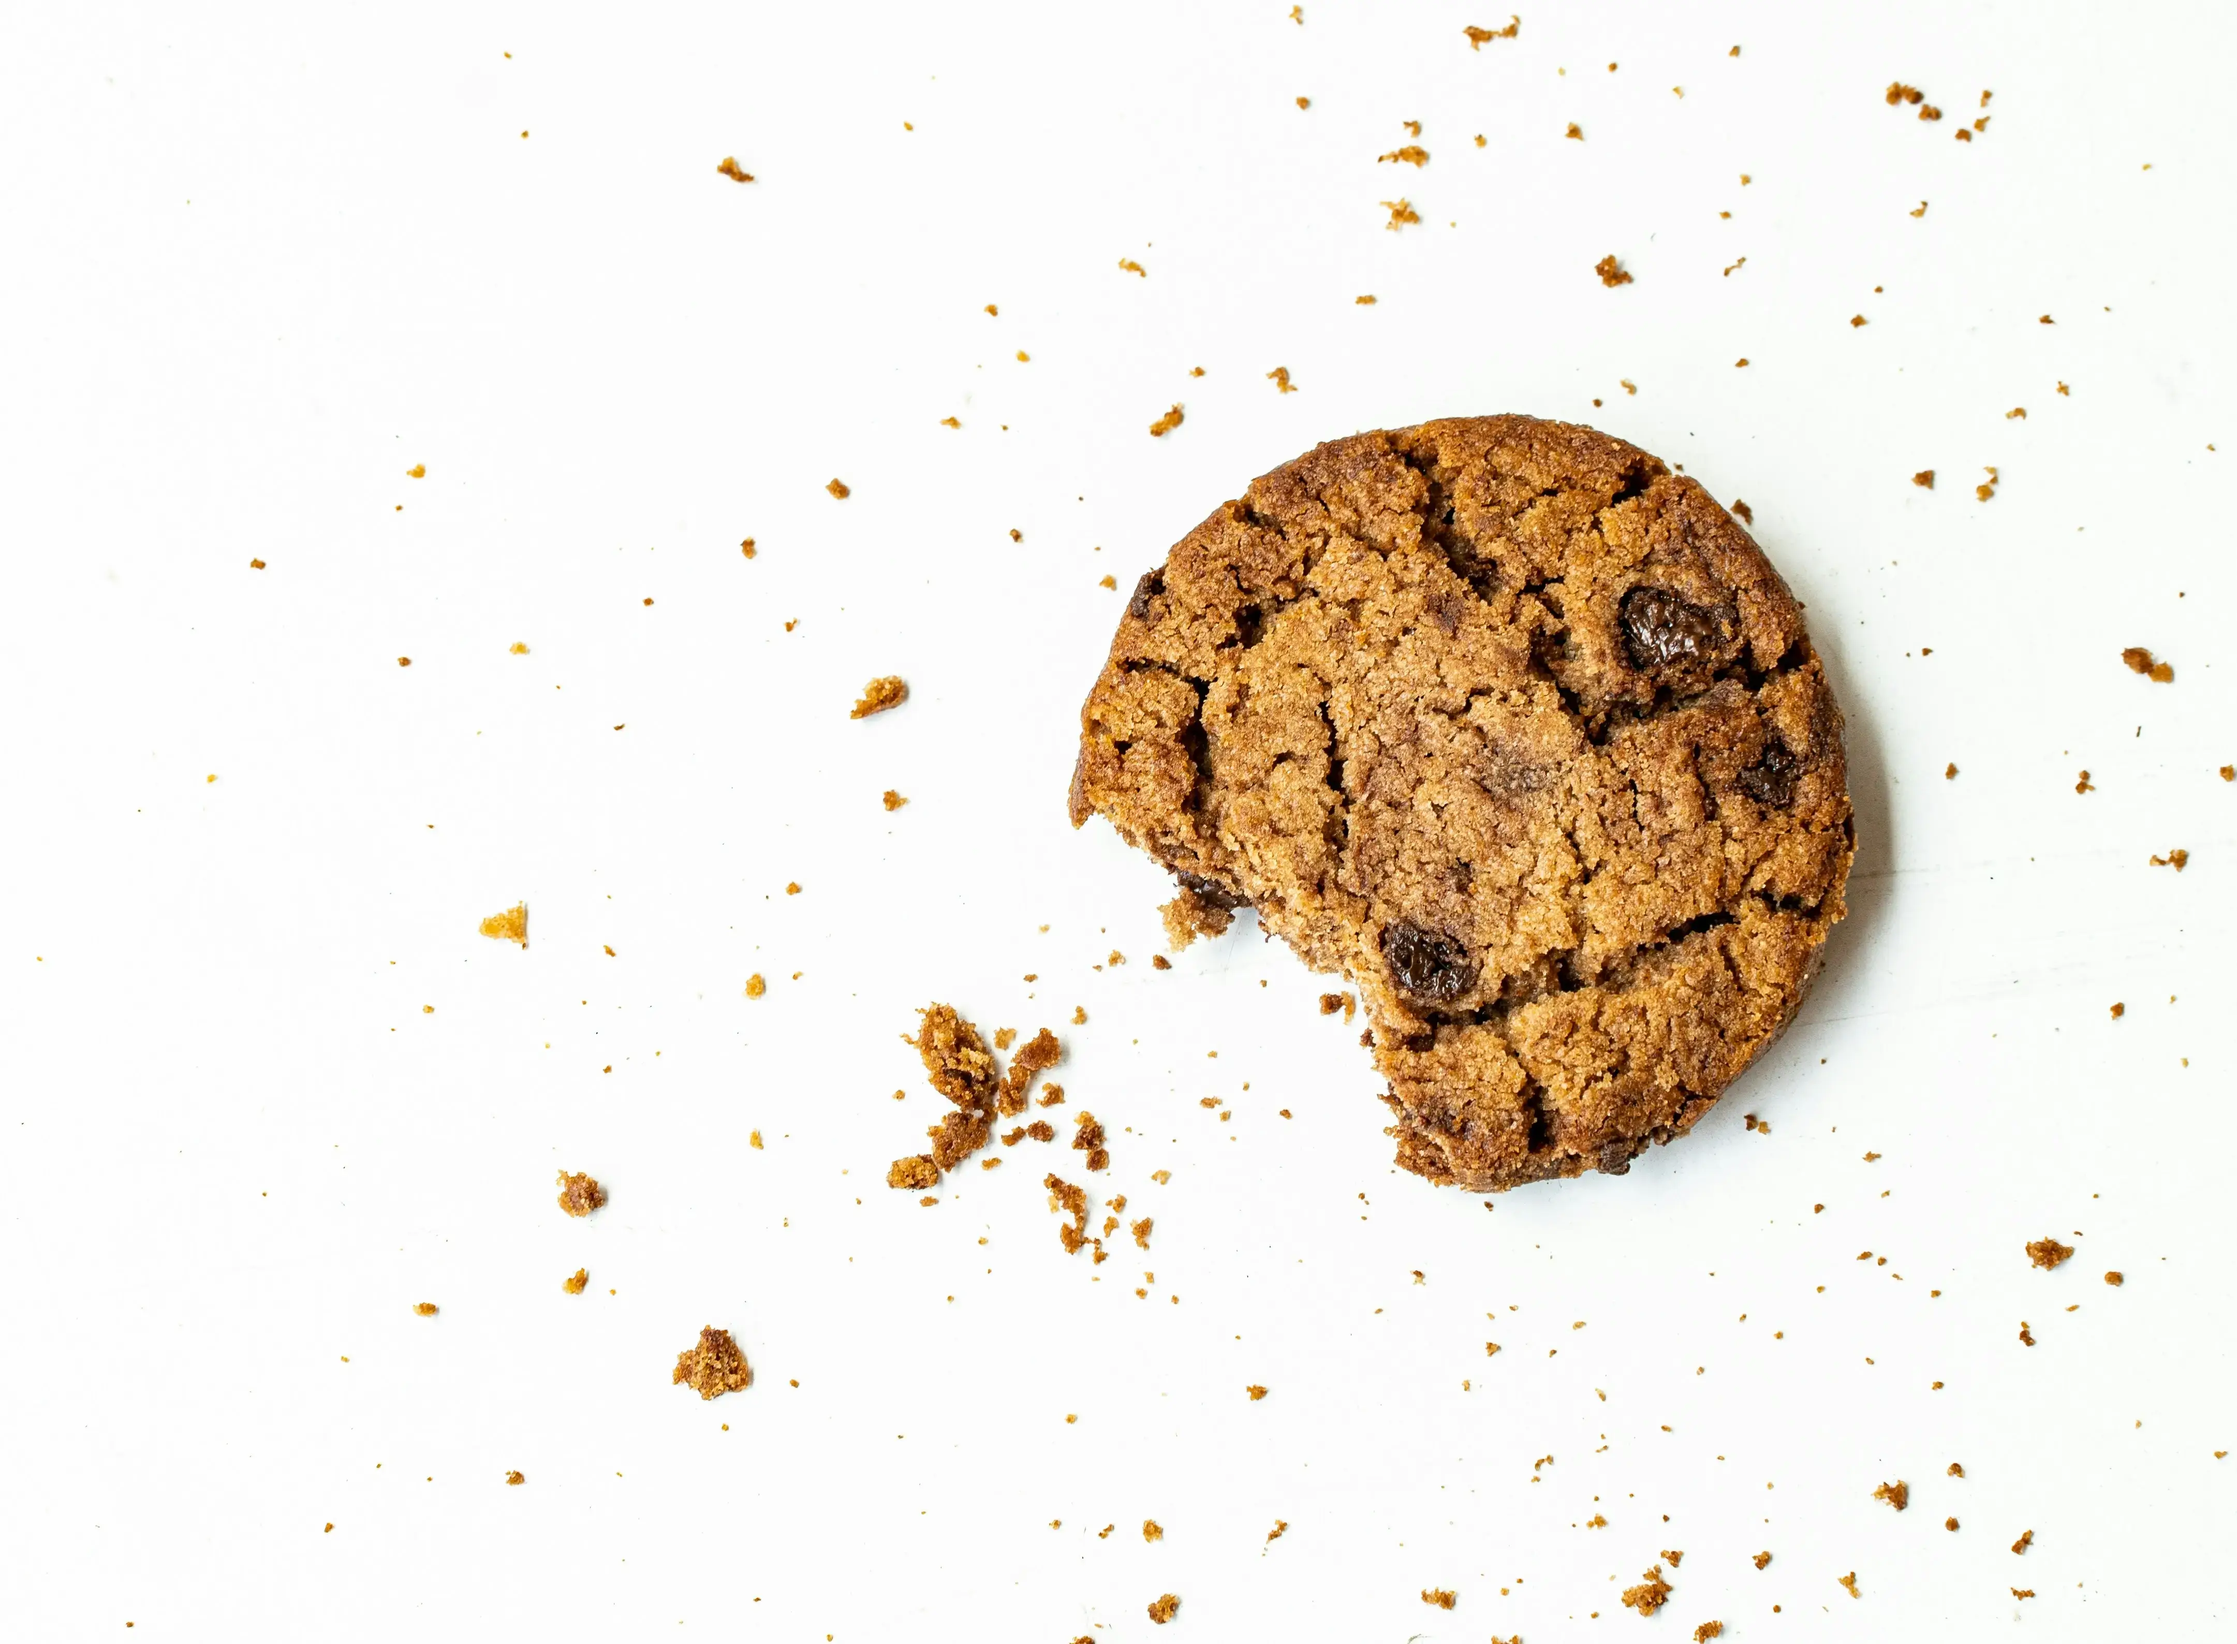
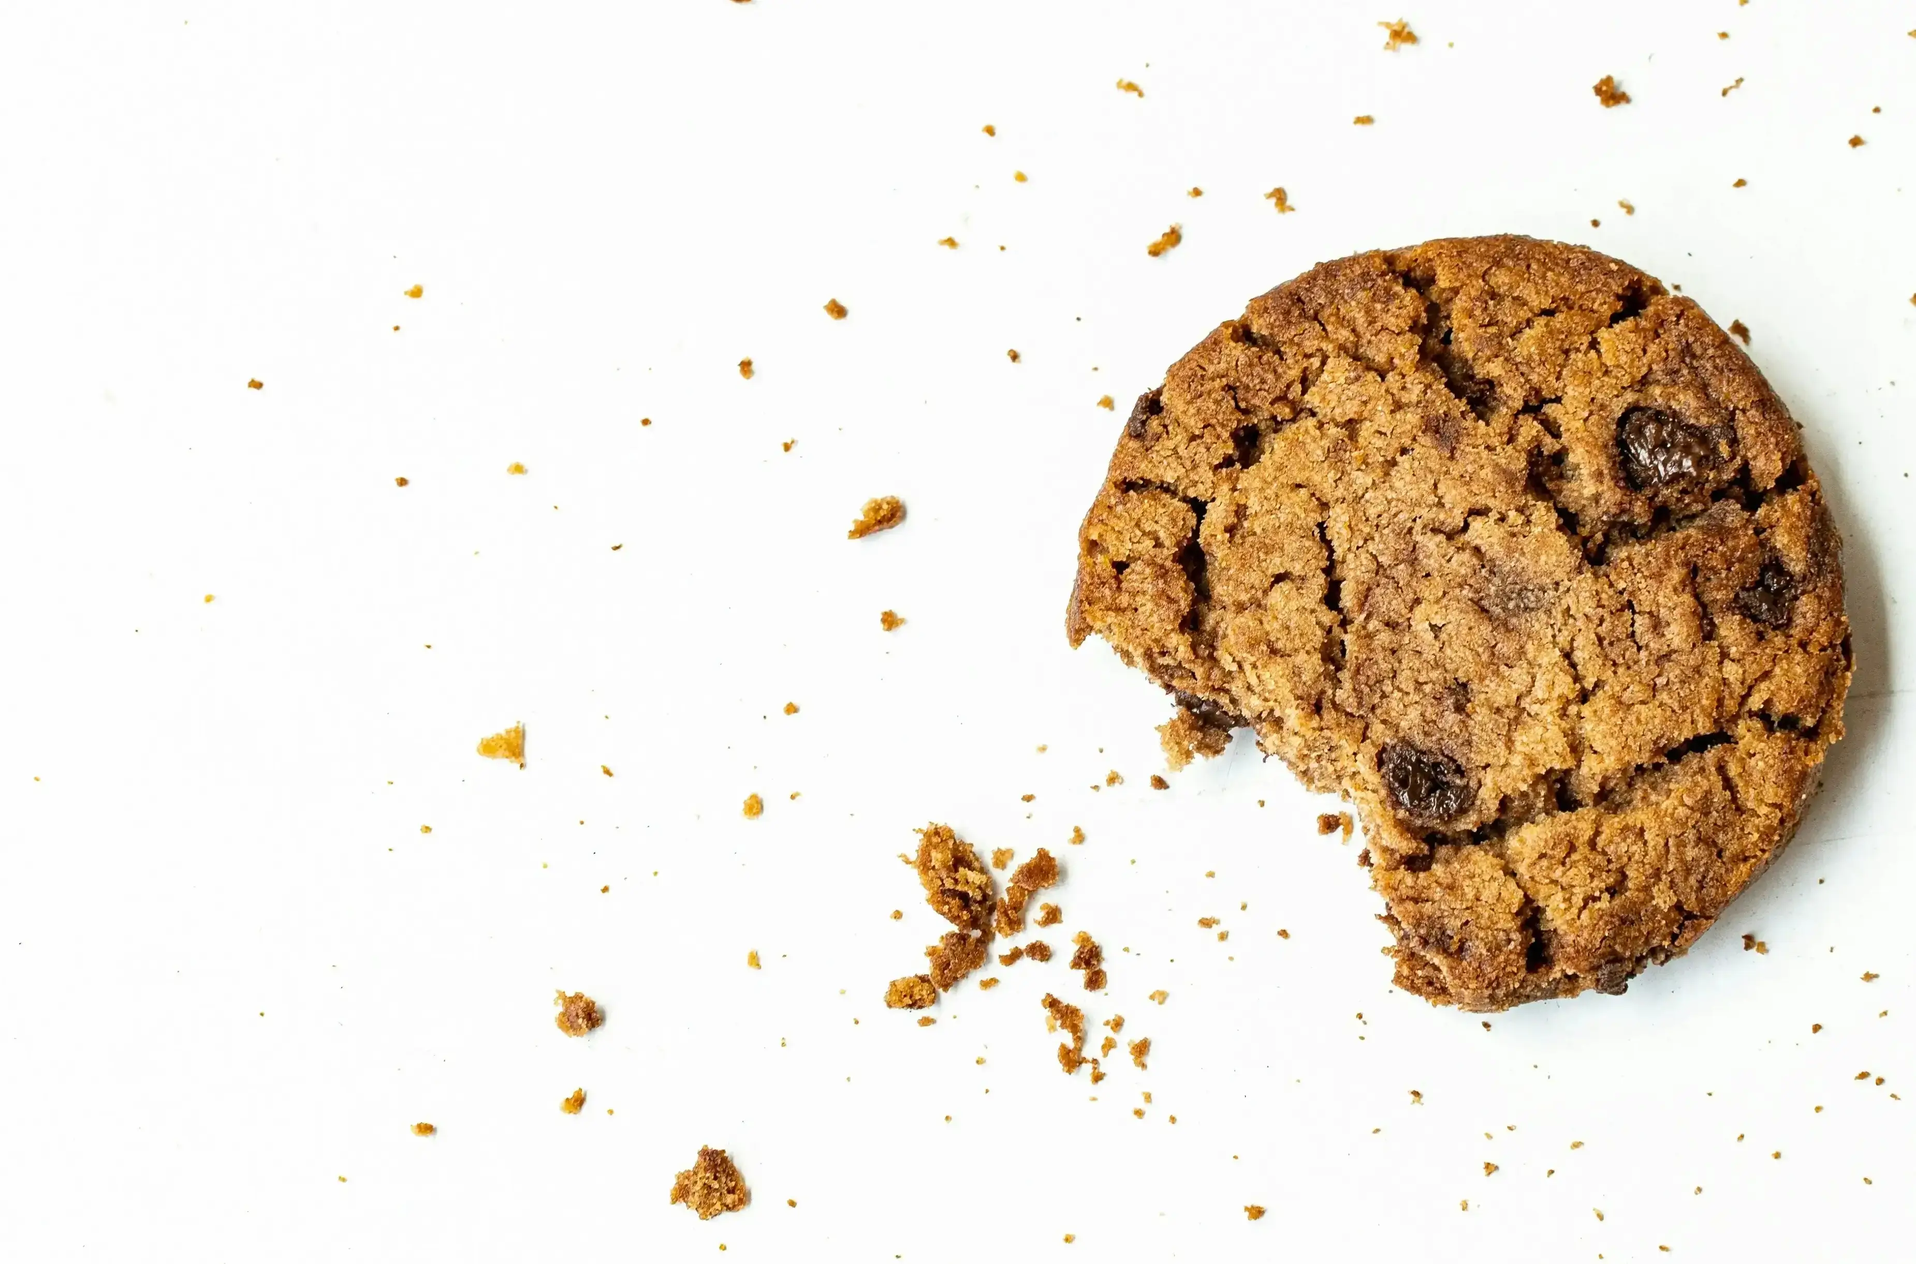
refactor
hero banner update

diff --git a/src/components/site-hero.js b/src/components/site-hero.js
@@ -1,58 +1,56 @@
 class SiteHero extends HTMLElement {
-    constructor() {
-        super();
-    }
-
     connectedCallback() {
         this.innerHTML = `
-    <section class="banner parallax-bg relative w-full h-screen max-h-[700px] md:max-h-full lg:max-h-full
-            bg-[url('public/images/cookie-banner.webp')]
-            lg:bg-[url('public/images/cookie-banner.webp')]
-            xl:bg-[url('public/images/cookie-banner.webp')]
-            md:bg-[url('public/images/cookie-banner.webp')]
-            sm:bg-[url('public/images/cookie-banner.webp')]
-            xs:bg-[url('public/images/cookie-mobile.webp')]
-            bg-[95%_50%] bg-cover bg-no-repeat overflow-hidden">
-        <div class="initial-snow snow-area" id="snow-container"></div>
-        <div class="relative h-full transition-transform duration-500 ease-in-out" id="slider-container">
-            <div class="absolute w-full h-full overflow-hidden">
-                <div class="flex h-full items-center justify-center md:justify-start w-full px-4 md:px-20">
-                    <div class="relative flex flex-col sm:flex-row items-center md:items-start gap-4 sm:gap-2 py-6 px-4 sm:px-2 sm:p-2 max-w-6xl
-                     lg:max-w-4xl md:max-w-6xl sm:max-w-6xl                    
-                     sm:scale-100 scale-95">
-                        <img src="public/images/vectors/cupcake.svg"
-                            class="animate-drop-bounce w-20 h-20 sm:w-28 sm:h-28 md:w-36 md:h-36 mt-2 md:mt-0 shrink-0 drop-shadow-xl"
-                            alt="Cupcake vector imagen" />
-                        <div class="text-center sm:text-left bg-white/70 backdrop-blur-xs rounded-lg p-4
-                                 lg:bg-transparent md:bg-transparent lg:backdrop-blur-none md:backdrop-blur-none lg:p-0 md:p-0"
-                            data-aos="fade-up" data-aos-delay="200">
-                            <h1
-                                class="banner-slide-title text-pink-500 sm:text-shadow-xl lg:text-pink-500 md:text-pink-500 ubuntu-font-bold font-semibold text-shadow-2xs text-5xl sm:text-6xl md:text-6xl lg:text-7xl xs:text-8xl leading-tight">
-                                ¿Se te antoja algo rico?
-                            </h1>
-                            <p
-                                class="text-base text-gray-900 text-xl lg:text-gray-700 md:text-gray-700 lg:md:text-2xl md:text-2xl sm:text-xl md:text-xl mt-3 lato-regular mb-3">
-                                Prueba ahora nuestros <strong class="text-gray-900 font-bold px-1">productos 100%
-                                    artesanales</strong>, con una variedad de opciones irresistibles y preparados con
-                                ingredientes premium
-                                que <strong class="text-gray-800">¡sentirás en cada bocado!</strong>
-                            </p>
-                            <a href="#catalog">
-                                <button class="w-xs mt-5 lg:w-sm md:w-sm mt-5 overflow-hidden relative bg-gray-800 text-yellow-300 font-bold py-2 px-5 sm:py-3 sm:px-8
-                               rounded-full shadow-md shadow-2xl transition duration-500 ease-in-out
-                               before:content-[''] before:absolute before:top-0 before:left-0
-                               before:w-0 before:h-full before:bg-white/50 before:transition-all
-                               before:duration-300 hover:scale-105 before:ease-in-out hover:before:w-full
-                               hover:text-gray-900 hover:shadow-3xl">
-                                    <svg class="w-4 h-4 inline-block ml-2 relative z-10" fill="none"
-                                        stroke="currentColor" viewBox="0 0 24 24">
-                                        <path stroke-linecap="round" stroke-linejoin="round" stroke-width="4"
-                                            d="M9 5l7 7-7 7"></path>
-                                    </svg>
-                                    <span class="relative z-10">Haz tu pedido aquí</span>
-                            </a>
-                        </div>
-                    </div>
+    <section class="banner parallax-bg relative w-full  h-[55vh] md:h-[67vh] lg:h-[95vh] overflow-hidden
+                 bg-[url('public/images/cookie-banner.webp')]
+                 bg-cover bg-no-repeat"
+             aria-label="Banner principal Postres Perla">
+
+        <!-- Snow particles layer -->
+        <div class="initial-snow snow-area absolute inset-0 z-10 pointer-events-none" id="snow-container"></div>
+
+        <!-- Content layer:
+             Mobile  → items-end + pb (texto en la zona baja, cookie arriba)
+             md+     → items-center (texto centrado verticalmente, cookie a la derecha) -->
+        <div class="relative h-full z-20 flex items-end md:items-center lg:items-center">
+            <div class="w-full max-w-4xl px-5 sm:px-10 md:px-16 lg:px-24 xl:px-32
+                        pb-14 sm:pb-16 md:pb-0">
+
+                <!-- Text block
+                     Mobile: glassmorphism card para legibilidad sobre la imagen
+                     md+: sin fondo (imagen no se superpone al texto) -->
+                <div class="max-w-xs sm:max-w-sm md:max-w-xl lg:max-w-2xl
+                            rounded-2xl p-5 sm:p-6 md:p-0
+                            bg-white/65 backdrop-blur-sm
+                            md:bg-transparent md:backdrop-blur-none
+                            shadow-sm md:shadow-none"
+                     data-aos="fade-up" data-aos-duration="600">
+                    <h1 class="ubuntu-font-bold font-bold leading-tight text-gray-800
+                               text-4xl sm:text-5xl md:text-6xl lg:text-6xl">
+                        Hechos a mano, para disfrutar hoy mismo
+                    </h1>
+                    <p class="lato-regular mt-6 mb-6 text-gray-800  text-sm sm:text-base md:text-xl lg:text-2xl">
+                        Prueba nuestros productos 100% artesanales, elaborados con ingredientes de calidad 
+                        y una variedad pensada para cada antojo. <strong class="text-stone-900">¡Sabor que se nota en cada bocado!</strong>
+                    </p>
+
+                    <a href="#catalog"
+                       class="inline-flex items-center gap-2
+                              bg-pink-500 text-white font-bold
+                              py-2.5 px-6 sm:py-3 sm:px-8
+                              rounded-full shadow-lg
+                              relative overflow-hidden
+                              transition-all duration-300 ease-in-out
+                              hover:scale-105 hover:shadow-2xl hover:text-gray-900
+                              before:content-[''] before:absolute before:inset-0
+                              before:bg-white/20 before:translate-x-[-100%]
+                              hover:before:translate-x-0 before:transition-transform before:duration-300">
+                        <svg class="w-4 h-4 relative z-10 shrink-0" fill="none"
+                             stroke="currentColor" viewBox="0 0 24 24" aria-hidden="true">
+                            <path stroke-linecap="round" stroke-linejoin="round" stroke-width="4" d="M9 5l7 7-7 7"/>
+                        </svg>
+                        <span class="relative z-10 whitespace-nowrap">Haz tu pedido aquí</span>
+                    </a>
                 </div>
             </div>
         </div>

diff --git a/src/components/site-navbar.js b/src/components/site-navbar.js
@@ -2,32 +2,28 @@ class SiteNavbar extends HTMLElement {
     constructor() {
         super();
     }
-    connectedCallback() {        
+    connectedCallback() {
         const links = [
             { href: '#catalog', text: 'Productos', extraClass: '' },
             { href: '#contact', text: 'Contáctanos', extraClass: '' },
             { href: '#about-me', text: 'Conócenos', extraClass: '' },
             { href: '#testimonials', text: 'Testimonios', extraClass: 'hidden md:block lg:block' }
-        ];        
-        // Estilo 'píldora' solo en hover (hover:bg-pink-500 hover:text-white).
+        ];
         const linksHTML = links.map(link => `
-            <a href="${link.href}" class="whitespace-nowrap px-4 py-2 transition-all duration-400 text-sm sm:text-lg hover:bg-pink-500 hover:text-white rounded-full ${link.extraClass}">
+            <a href="${link.href}" class="whitespace-nowrap px-4 py-2 transition-all duration-300 text-sm sm:text-base hover:bg-gray-900 hover:text-white/80 rounded-full ${link.extraClass}">
                 ${link.text}
             </a>
         `).join('');
-
         this.innerHTML = `
-    <nav id="smart-navbar" class="fixed z-50 bg-white shadow-md h-14 lg:h-16 
+    <nav id="smart-navbar" class="fixed z-50 bg-white shadow-xl h-14 lg:h-16 
      flex items-center justify-between px-3 md:px-6 lg:px-6 transition-transform duration-300 transform-gpu
-     rounded-full mt-[4px] md:mt-4 w-[96%] max-w-6xl left-1/2 -translate-x-1/2">
-        
+     rounded-full mt-[4px] md:mt-4 w-[96%] max-w-6xl left-1/2 -translate-x-1/2">        
         <a href="#" class="flex brand-logo flex-nowrap items-center shrink-0 py-2 lg:py-5">
             <img src="./public/icons/P-perla-logo.png" alt="Logo de la pastelería Postres Perla" class="h-10 w-10 md:h-10 md:w-10
             lg:h-12 lg:w-12  rounded-full border-[3px] lg:border-4 border-pink-100" />
-            <span class="hidden md:block text-pink-600 pl-2 text-2xl lg:text-3xl font-bold md:font-normal">Postres Perla</span>
-        </a>
-        
-        <div class="flex justify-start items-center space-x-2 md:space-x-4 text-pink-500 capitalize font-semibold ubuntu-font scrollbar-hide overflow-x-auto
+            <span class="hidden md:block text-pink-500 pl-1 text-2xl lg:text-2xl font-bold md:font-normal">Postres Perla</span>
+        </a>        
+        <div class="flex justify-start items-center space-x-2 md:space-x-4 text-pink-600 capitalize font-semibold ubuntu-font scrollbar-hide overflow-x-auto
         md:overflow-x-hidden py-1 w-full pl-3 lg:pl-0 lg:w-auto lg:justify-end">
             ${linksHTML}
         </div>

diff --git a/src/scripts/effects.js b/src/scripts/effects.js
@@ -1,10 +1,48 @@
-// Parallax Effect Logic (Maintained for layout behavior)
-document.addEventListener('scroll', function () {
-    const scrolled = window.scrollY;
-    const parallaxElements = document.querySelectorAll('.parallax-bg');
-    if (parallaxElements.length > 0) {
-        parallaxElements.forEach(element => {
-            element.style.backgroundPosition = `95% calc(50% + ${scrolled * 0.3}px)`;
-        });
+/**
+ * Hero Parallax — single source of truth for background-position.
+ *
+ * Why JS-only instead of CSS + JS:
+ * If CSS sets an initial bg-position and JS sets a different one on first scroll,
+ * the browser shows a visible "jump". Owning the position entirely from JS,
+ * applied on load + scroll + resize, eliminates that inconsistency.
+ *
+ * Breakpoints mirror Tailwind's defaults:
+ *   < 640px  (mobile)  : cookie upper-right → 65% 18%
+ *   640–767px (sm)     : cookie right-upper  → 80% 30%
+ *   768–1023px (md)    : cookie right-center → 85% 45%
+ *   ≥ 1024px  (lg+)   : cookie far right    → 90% 50%
+ */
+function getHeroPosition(scrolled) {
+    const w = window.innerWidth;
+    let x, yBase;
+
+    if (w < 640) {
+        x = '55%'; yBase = 45;   // cookie shifted right on narrow viewport, text stays left
+    } else if (w < 768) {
+        x = '70%'; yBase = 30;
+    } else if (w < 1024) {
+        x = '85%'; yBase = 45;
+    } else {
+        x = '90%'; yBase = 50;
     }
-});
+
+    // yBase is a %, parallax offset is px — keeps units separate for correctness
+    return `${x} calc(${yBase}% + ${scrolled * 0.3}px)`;
+}
+
+function applyParallax() {
+    const scrolled = window.scrollY;
+    const position = getHeroPosition(scrolled);
+    document.querySelectorAll('.parallax-bg').forEach(el => {
+        el.style.backgroundPosition = position;
+    });
+}
+
+// Set initial position immediately on load (scrollY is 0 → no parallax offset yet)
+document.addEventListener('DOMContentLoaded', applyParallax);
+
+// Update on scroll (parallax Y motion)
+window.addEventListener('scroll', applyParallax, { passive: true });
+
+// Update on resize / orientation change (breakpoint X may change)
+window.addEventListener('resize', applyParallax, { passive: true });

diff --git a/src/components/site-catalog.js b/src/components/site-catalog.js
@@ -61,9 +61,6 @@ class SiteCatalog extends HTMLElement {
                                      lg:bg-white lg:rounded-full lg:shadow-lg
                                      md:bg-white md:rounded-full md:shadow-lg
                                      sm:bg-white sm:rounded-full sm:shadow-lg">
-                    
-                    
-
                     <button data-category="pasteles" @click="activeCategory = 'pasteles'" :class="{
                                     'bg-yellow-200 text-gray-800 border-transparent shadow-md md:bg-yellow-200 md:border-gray-200 md:text-gray-800 md:shadow-lg': activeCategory === 'pasteles',
                                     'bg-white text-gray-700 border-white shadow-sm md:bg-transparent md:text-gray-600 md:border-transparent md:shadow-none': activeCategory !== 'pasteles'
@@ -112,7 +109,7 @@ class SiteCatalog extends HTMLElement {
                         <div @click="showProductModal(product)" class="cursor-pointer w-full mt-3 mb-3 sm:w-1/2 md:w-1/2 lg:w-1/4 px-3 flex justify-center"
                             data-aos="fade-up">
                             <div class="img-box bg-white rounded-[2rem] shadow-sm hover:shadow-2xl transition-all duration-500
-                                overflow-hidden max-w-[310px] flex flex-col border border-gray-300">
+                                overflow-hidden max-w-[310px] flex flex-col border border-pink-200">
                                 
                                 <!-- Contenedor de Imagen (Like Concept #1) -->
                                 <div class="img-container overflow-hidden p-3 pb-0">
